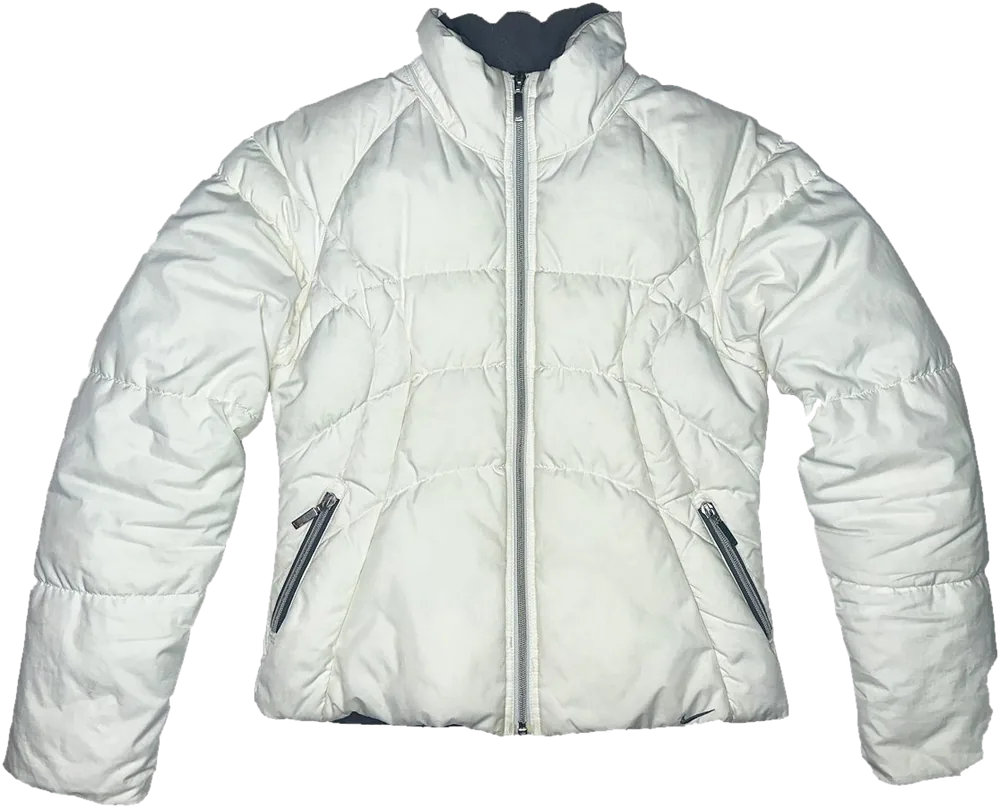
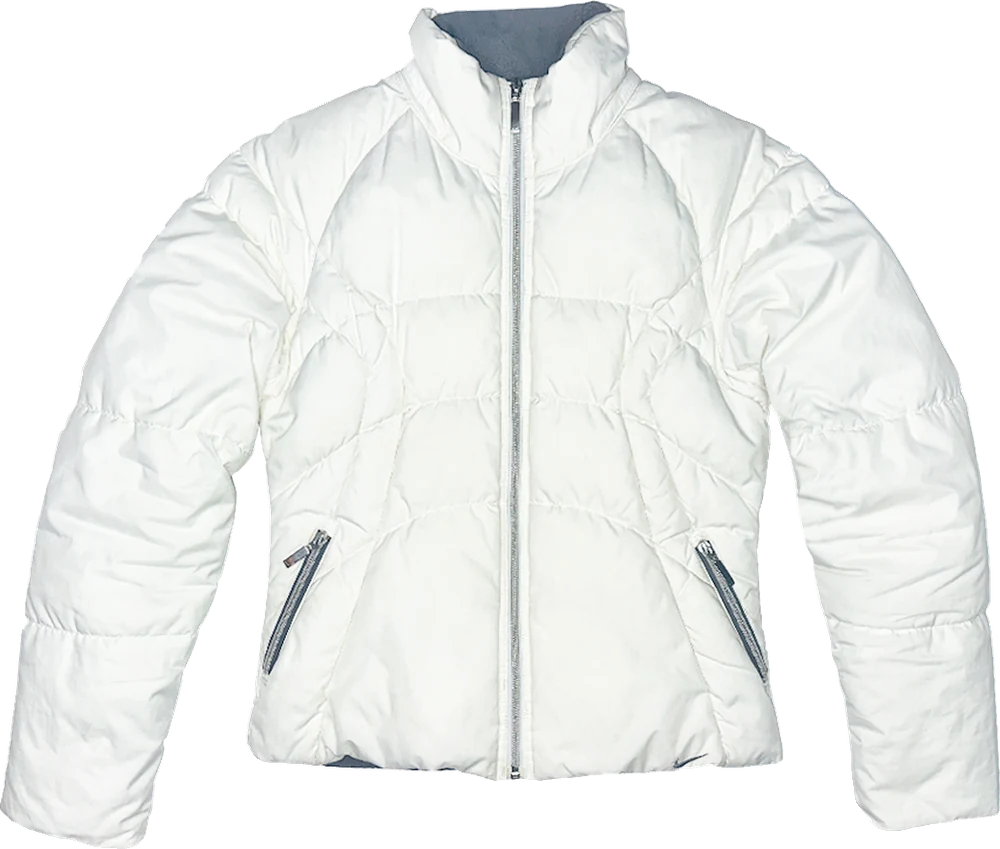
Cierre suave de la prenda, espaldas de puffer y bolso Jet, correcciones (Reebok, Mormaii, Remera deportiva)
Claude-Session: https://claude.ai/code/session_01Uqg4tAaqoRYSQXJpjH5aoM

diff --git a/index.html b/index.html
@@ -313,19 +313,19 @@ var ITEMS = [
 { id: 'capucha', name: 'Musculosa', brand: 'NIKE', w: 3, h: 3, f: I('muscu-capucha-nike'), b: I('muscu-capucha-nike-back') },
 { id: 'blanco34', name: '3/4 Deportivos', brand: 'WIL', w: 3, h: 4, f: I('3-4-blancos'), b: I('3-4-blancos-back') },
 { id: 'vincha', name: 'Vincha ninja', brand: 'NIKE', w: 3, h: 1, f: I('vincha-ninja-nike') },
-{ id: 'puffer', name: 'Campera puffer', brand: 'NIKE', w: 4, h: 4, f: I('campe-blanca-nike') },
+{ id: 'puffer', name: 'Campera puffer', brand: 'NIKE', w: 4, h: 4, f: I('campe-blanca-nike'), b: I('campe-blanca-nike-back') },
 { id: 'revista', name: 'Revista Vol. 01', brand: 'JOVENHUESO', w: 3, h: 3, f: 'revista/tapa.jpg', b: 'revista/contratapa.jpg', pages: REV, size: 'A4', revista: true },
 { id: 'remegris', name: 'Remera deportiva', brand: 'NIKE', w: 3, h: 3, f: I('reme-gris-nike'), b: I('reme-gris-nike-back') },
 { id: 'boina', name: 'Boina Total 90', brand: 'NIKE', w: 2, h: 2, f: I('boina-nike'), b: I('boina-nike-back') },
 { id: 'canilleras', name: 'Canilleras Total 90', brand: 'NIKE', w: 2, h: 2, f: I('canilleras-nike') },
-{ id: 'gafas', name: 'Gafas', brand: 'MORMAI', w: 3, h: 1, f: I('gafas-blancas') },
+{ id: 'gafas', name: 'Gafas', brand: 'MORMAII', w: 3, h: 1, f: I('gafas-blancas') },
 { id: 'chombaark', name: 'Chomba', brand: 'ADIDAS', w: 3, h: 3, f: I('chomba-ark-adidas'), b: I('chomba-ark-adidas-back') },
 { id: 'inter', name: 'Camiseta Inter 20/21', brand: 'NIKE', w: 3, h: 3, f: I('reme-inter'), b: I('reme-inter-back') },
 { id: 'muscunaranja', name: 'Musculosa deportiva', brand: 'NIKE', w: 3, h: 3, f: I('muscu-naranja-nike'), b: I('muscu-naranja-nike-back') },
 { id: 'muscuroja', name: 'Musculosa deportiva', brand: 'ADIDAS', w: 3, h: 3, f: I('muscu-roja-adidas'), b: I('muscu-roja-adidas-back') },
-{ id: 'pant', name: 'Pantalones', brand: 'REEBOOK', w: 3, h: 6, f: I('pant-reebook'), b: I('pant-reebook-back') },
+{ id: 'pant', name: 'Pantalones', brand: 'REEBOK', w: 3, h: 6, f: I('pant-reebook'), b: I('pant-reebook-back') },
 { id: 'muscunegra', name: 'Musculosa Dri-Fit', brand: 'NIKE', w: 3, h: 3, f: I('muscu-negra-nike'), b: I('muscu-negra-nike-back') },
-{ id: 'remeceleste', name: 'Remera deportivo', brand: 'ADIDAS', w: 3, h: 3, f: I('reme-celeste-adidas'), b: I('reme-celeste-adidas-back') },
+{ id: 'remeceleste', name: 'Remera deportiva', brand: 'ADIDAS', w: 3, h: 3, f: I('reme-celeste-adidas'), b: I('reme-celeste-adidas-back') },
 { id: 'jean34', name: '3/4 Jean', brand: 'NIKE', w: 3, h: 4, f: I('3-4-nike'), b: I('3-4-nike-back') },
 { id: 'pollera', name: 'Pollera', brand: 'ADIDAS', w: 3, h: 3, f: I('pollera-adidas'), b: I('pollera-adidas-back') },
 { id: 'chombablanca', name: 'Chomba tennis', brand: 'ADIDAS', w: 3, h: 3, f: I('chomba-blanca-adidas'), b: I('chomba-blanca-adidas-back') },
@@ -333,11 +333,11 @@ var ITEMS = [
 { id: 'kioto', name: 'Zapatillas Kioto', brand: 'NIKE', w: 2, h: 3, f: I('nike-ninja-blancas') },
 { id: 'tabisblancas', name: 'Zapatillas Tabi', brand: 'NIKE', w: 2, h: 3, f: I('tabis-blancas'), b: I('tabis-blancas-suela') },
 { id: 'tabisnegras', name: 'Zapatillas Tabi', brand: 'NIKE', w: 2, h: 3, f: I('tabis-negras-frente'), b: I('tabis-negras-suela') },
-{ id: 'bolso', name: 'Bolso', brand: 'JET', w: 3, h: 3, f: I('cartera-jet') }
+{ id: 'bolso', name: 'Bolso', brand: 'JET', w: 3, h: 3, f: I('cartera-jet'), b: I('cartera-jet-back') }
 ];
 // medida real del lado más largo de cada prenda (cm) y tamaño de cada foto: para que todo esté a la misma escala
 var REAL = {"fleece": ["h", 70], "puffer": ["h", 66], "bandolera": ["h", 75], "capucha": ["h", 72], "blanco34": ["h", 70], "vincha": ["w", 29], "revista": ["h", 65], "remegris": ["h", 60], "boina": ["w", 28], "canilleras": ["w", 30], "gafas": ["w", 15], "chombaark": ["h", 66], "inter": ["h", 56], "muscunaranja": ["h", 58], "muscuroja": ["h", 56], "pant": ["h", 102], "muscunegra": ["h", 68], "remeceleste": ["h", 58], "jean34": ["h", 72], "pollera": ["h", 38], "chombablanca": ["h", 60], "zoom": ["h", 30], "kioto": ["h", 29], "tabisblancas": ["h", 28], "tabisnegras": ["h", 28], "bolso": ["h", 40]}; // medida real: ['h', alto en cm] o ['w', ancho en cm]
-var DIMS = {"img/muscu-capucha-nike.webp":[612,1000],"img/reme-gris-nike.webp":[979,1000],"img/vincha-ninja-nike.webp":[1000,604],"img/campe-nike.webp":[1000,807],"img/chomba-ark-adidas.webp":[1000,842],"img/3-4-blancos.webp":[902,1000],"img/boina-nike.webp":[1000,872],"img/boina-nike-back.webp":[1000,852],"img/3-4-nike-back.webp":[832,1000],"img/muscu-naranja-nike.webp":[911,1000],"img/reme-inter.webp":[1000,890],"img/pollera-adidas-back.webp":[1000,641],"img/muscu-negra-nike-back.webp":[712,1000],"img/3-4-blancos-back.webp":[794,1000],"img/cantimplora-nike.webp":[214,1000],"img/reme-gris-nike-back.webp":[961,1000],"img/reme-celeste-adidas-back.webp":[1000,991],"img/tennis-nike-suela.webp":[815,1000],"img/chomba-ark-adidas-back.webp":[1000,848],"img/3-4-nike.webp":[777,1000],"img/campe-nike-back.webp":[1000,755],"img/reme-celeste-adidas.webp":[1000,992],"img/tabis-blancas-suela.webp":[779,1000],"img/muscu-capucha-nike-back.webp":[602,1000],"img/pant-reebook-back.webp":[547,1000],"img/tabis-negras-suela.webp":[790,1000],"img/muscu-negra-nike.webp":[689,943],"img/cartera-jet.webp":[528,1000],"img/tabis-blancas.webp":[818,1000],"img/campe-blanca-nike.webp":[1000,808],"img/canilleras-nike.webp":[1000,815],"img/nike-ninja-blancas.webp":[843,1000],"img/reme-inter-back.webp":[1000,882],"img/chomba-blanca-adidas.webp":[938,1000],"img/tennis-nike.webp":[932,1000],"img/tabis-negras-frente.webp":[827,1000],"img/muscu-naranja-nike-back.webp":[927,1000],"img/muscu-roja-adidas-back.webp":[828,1000],"img/muscu-roja-adidas.webp":[809,1000],"img/pant-reebook.webp":[541,1000],"img/pollera-adidas.webp":[1000,656],"img/gafas-blancas.webp":[1000,436],"img/chomba-blanca-adidas-back.webp":[908,1000],"revista/tapa.jpg":[1290,1825],"revista/contratapa.jpg":[1290,1825]};
+var DIMS = {"img/cartera-jet-back.webp":[526,1000],"img/campe-blanca-nike-back.webp":[1000,864],"img/muscu-capucha-nike.webp":[612,1000],"img/reme-gris-nike.webp":[979,1000],"img/vincha-ninja-nike.webp":[1000,604],"img/campe-nike.webp":[1000,807],"img/chomba-ark-adidas.webp":[1000,842],"img/3-4-blancos.webp":[902,1000],"img/boina-nike.webp":[1000,872],"img/boina-nike-back.webp":[1000,852],"img/3-4-nike-back.webp":[832,1000],"img/muscu-naranja-nike.webp":[911,1000],"img/reme-inter.webp":[1000,890],"img/pollera-adidas-back.webp":[1000,641],"img/muscu-negra-nike-back.webp":[712,1000],"img/3-4-blancos-back.webp":[794,1000],"img/cantimplora-nike.webp":[214,1000],"img/reme-gris-nike-back.webp":[961,1000],"img/reme-celeste-adidas-back.webp":[1000,991],"img/tennis-nike-suela.webp":[815,1000],"img/chomba-ark-adidas-back.webp":[1000,848],"img/3-4-nike.webp":[777,1000],"img/campe-nike-back.webp":[1000,755],"img/reme-celeste-adidas.webp":[1000,992],"img/tabis-blancas-suela.webp":[779,1000],"img/muscu-capucha-nike-back.webp":[602,1000],"img/pant-reebook-back.webp":[547,1000],"img/tabis-negras-suela.webp":[790,1000],"img/muscu-negra-nike.webp":[689,943],"img/cartera-jet.webp":[527,1000],"img/tabis-blancas.webp":[818,1000],"img/campe-blanca-nike.webp":[1000,849],"img/canilleras-nike.webp":[1000,815],"img/nike-ninja-blancas.webp":[843,1000],"img/reme-inter-back.webp":[1000,882],"img/chomba-blanca-adidas.webp":[938,1000],"img/tennis-nike.webp":[932,1000],"img/tabis-negras-frente.webp":[827,1000],"img/muscu-naranja-nike-back.webp":[927,1000],"img/muscu-roja-adidas-back.webp":[828,1000],"img/muscu-roja-adidas.webp":[809,1000],"img/pant-reebook.webp":[541,1000],"img/pollera-adidas.webp":[1000,656],"img/gafas-blancas.webp":[1000,436],"img/chomba-blanca-adidas-back.webp":[908,1000],"revista/tapa.jpg":[1290,1825],"revista/contratapa.jpg":[1290,1825]};
 // prendas vendidas: siguen en el catálogo, pero al abrirlas dice VENDIDO y no se pueden consultar ni agregar al carrito
 var SOLD = ['tabisblancas', 'tabisnegras', 'remegris', 'gafas'];
 // precios de venta y medidas en plano (cm), tomados de la planilla "Joven Hueso Finanzas" (Drive)
@@ -1008,8 +1008,19 @@ ov.classList.toggle('is-sold', !!x.sold);
 syncAddBtn();
 }
 function openItem(id) { cur = id; side = flipped && BY[id].b ? (BY[id].pages ? BY[id].pages.length - 1 : 1) : 0; // si el catálogo está dado vuelta, se abre mostrando la espalda (la revista, en la contratapa)
+ if (ovClosing) { ovClosing.cancel(); ovClosing = null; }
  renderOv(); ov.classList.add('open'); document.getElementById('ovClose').focus(); }
-document.getElementById('ovClose').addEventListener('click', function () { ov.classList.remove('open'); if (cards[cur]) cards[cur].focus(); });
+// cierre suave: el inverso de la apertura (la prenda se achica un poco y todo se desvanece)
+var ovClosing = null;
+document.getElementById('ovClose').addEventListener('click', function () {
+if (!ov.classList.contains('open') || ovClosing) return;
+var back = cards[cur];
+if (!ov.animate) { ov.classList.remove('open'); if (back) back.focus(); return; }
+var im = ov.querySelector('.jh-ov-box img');
+if (im) im.animate([{ transform: 'scale(1)', opacity: 1 }, { transform: 'scale(.88)', opacity: 0 }], { duration: 340, easing: 'cubic-bezier(.4,0,.6,1)', fill: 'forwards' });
+ovClosing = ov.animate([{ opacity: 1 }, { opacity: 0 }], { duration: 380, easing: 'ease-in-out', fill: 'forwards' });
+ovClosing.onfinish = function () { ov.classList.remove('open'); ovClosing.cancel(); ovClosing = null; if (back) back.focus({ preventScroll: true }); };
+});
 function stepOv(d) {
 var x = BY[cur], n = (x.pages || (x.b ? [x.f, x.b] : [x.f])).length;
 if (n < 2) { var i0 = ovBox.querySelector('img'); if (i0) i0.style.transform = ''; return; }
